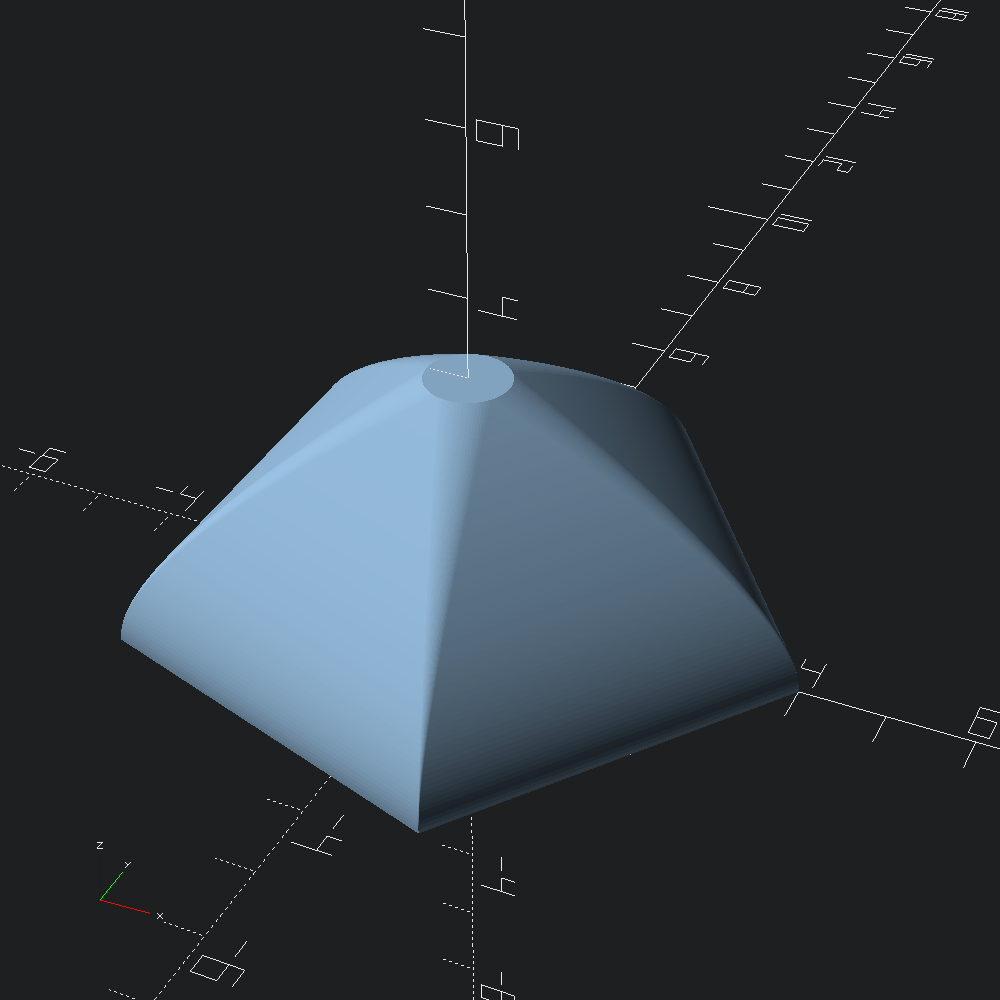
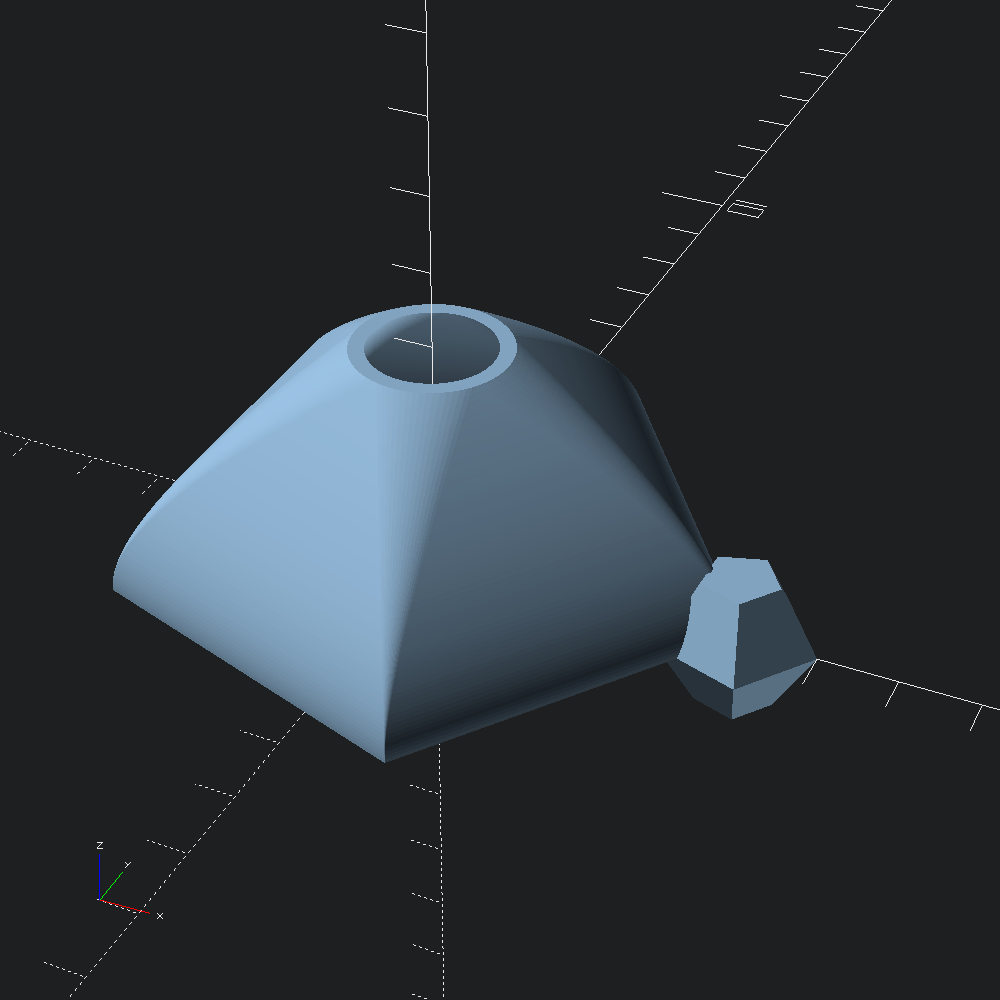
deploy: 16d3b80e002b6e3b9e67a9dfe6562613a2df35c9

Changed region(s): [[0.093, 0.279, 0.837, 0.837]]

diff --git a/scad_ml/skins_and_morphs.html b/scad_ml/skins_and_morphs.html
@@ -56,23 +56,6 @@ let () =
   |&gt; Mesh.to_scad
   |&gt; fun s -&gt; Scad.union [ s; Scad.sphere 1. ] |&gt; Scad.to_file &quot;skin_test.scad&quot;
 
-(* let () = *)
-(*   let rounded = *)
-(*     Path3.( *)
-(*       roundover ~fn:32 *)
-(*       @@ Round.flat *)
-(*            ~closed:true *)
-(*            ~corner:(Round.circ (`Radius 15.)) *)
-(*            (v3 (-25.) 25. 0. :: Path3.square (v2 50. 50.))) *)
-(*     |&gt; Path3.subdivide ~closed:true ~freq:(`Refine (4, `ByLen)) *)
-(*   and sq = *)
-(*     v3 4. 0. 0. :: Path3.square ~center:true (v2 10. 10.) *)
-(*     |&gt; Path3.translate (v3 30. 30. 10.) *)
-(*   in *)
-(*   Mesh.skin ~refine:2 ~slices:(`Flat 25) ~spec:(`Flat `Tangent) [ rounded; sq ] *)
-(*   |&gt; Mesh.to_scad *)
-(*   |&gt; Scad.to_file &quot;tangent_skin_test.scad&quot; *)
-
 let () =
   Mesh.skin
     ~refine:2
@@ -82,17 +65,8 @@ let () =
   |&gt; Mesh.to_scad
   |&gt; Scad.to_file &quot;tangent_skin_test.scad&quot;
 
-(* let () = *)
-(*   Scad.union *)
-(*     [ Scad.circle ~fn:5 1. |&gt; Scad.linear_extrude ~height:1. *)
-(*     ; Poly2.circle ~fn:5 1. *)
-(*       |&gt; Mesh.linear_extrude ~height:1. *)
-(*       |&gt; Mesh.translate (v3 0. 0. 1.5) *)
-(*       |&gt; Mesh.to_scad *)
-(*     ] *)
-(*   |&gt; Scad.to_file &quot;circ_test.scad&quot; *)
-
 let () =
+  let test_union s = Scad.union [ s; Scad.sphere 2.5 ] in
   let path =
     let control = Vec3.[ v 0. 0. 2.; v 0. 20. 20.; v 40. 20. 10.; v 30. 0. 10. ] in
     Bezier3.curve ~fn:60 @@ Bezier3.of_path ~size:(`FlatRel 0.3) control
@@ -103,18 +77,21 @@ let () =
         ~top:(round @@ circ (`Radius 0.5)))
   and a = Poly2.ring ~fn:5 ~thickness:(v2 2.5 2.5) (v2 6. 6.)
   and b = Poly2.ring ~fn:80 ~thickness:(v2 2. 2.) (v2 4. 4.) in
-  Mesh.path_morph ~caps ~path ~outer_map:`Tangent a b
+  Mesh.path_morph ~refine:2 ~caps ~path ~outer_map:`Tangent a b
   |&gt; Mesh.to_scad
-  |&gt; fun s -&gt; Scad.union [ s; Scad.sphere 2.5 ] |&gt; Scad.to_file &quot;tangent_morph_test.scad&quot;
+  |&gt; test_union
+  |&gt; Scad.to_file &quot;tangent_morph_test.scad&quot;
 
 let () =
+  let test_union s = Scad.union [ s; Scad.(translate (v3 4. 0. 0.) @@ sphere 1.) ] in
   Mesh.linear_morph
     ~refine:2
     ~ez:(v2 0.42 0., v2 1. 1.)
     ~slices:60
     ~outer_map:`Tangent
     ~height:3.
-    (Poly2.circle ~fn:5 4.)
-    (Poly2.circle ~fn:80 0.5)
+    (Poly2.ring ~fn:5 ~thickness:(v2 1. 1.) (v2 4. 4.))
+    (Poly2.ring ~fn:80 ~thickness:(v2 0.2 0.2) (v2 1. 1.))
   |&gt; Mesh.to_scad
+  |&gt; test_union
   |&gt; Scad.to_file &quot;eased_morph.scad&quot;</code></pre></header><div class="odoc-content"></div></body></html>
